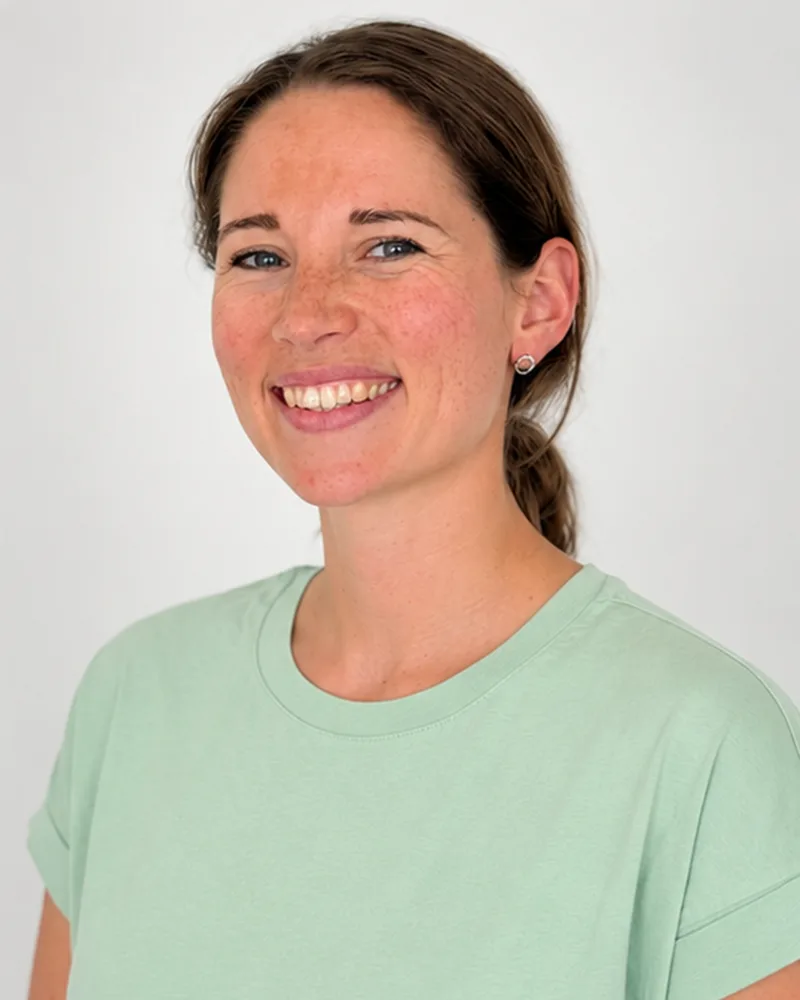
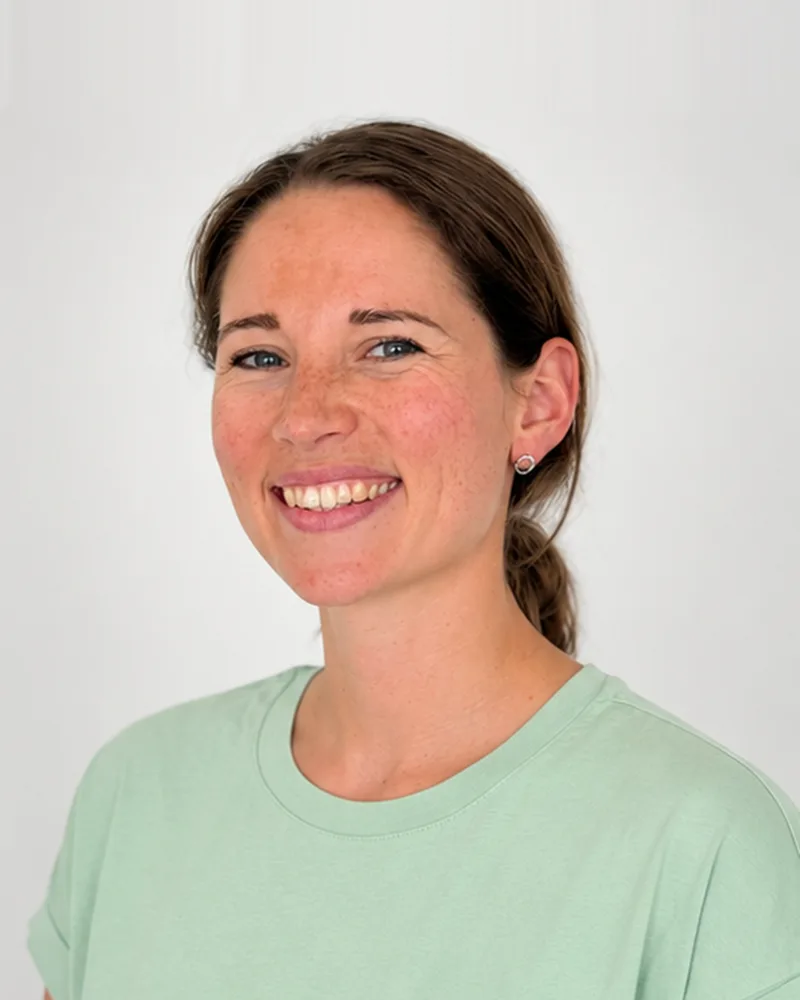
fix(team): Köpfe nicht mehr abgeschnitten — Luft über dem Kopf in den Fotos statt Sonderausschnitt
Die Form zoomt das Foto um 22 % hinein (nötig wegen der Drehung). Bei eng
gerahmten Fotos lag die Kopfoberkante damit außerhalb. Jetzt haben die Dateien
oben ~10 % verlängerte Wand, der Ausschnitt ist für alle oben bündig; der
FOKUS-Sonderfall der Ärztin entfällt.

diff --git a/src/components/ui/Formbild.tsx b/src/components/ui/Formbild.tsx
@@ -34,15 +34,6 @@ const LAGEN = [
   { dreh: 3, spiegel: 1 },
 ] as const;
 
-/**
- * Vertikaler Bildausschnitt in Prozent je Person (Standard 8, siehe `formbild.css`).
- * Das Foto der Ärztin ist enger gerahmt als die der Mitarbeiterinnen — mit 8 %
- * schnitt die Form ihr oben das Haar an (gemessen 20.10.2026); 0 % zeigt den
- * Bildanfang. Bei neuen Fotos
- * mit anderem Abstand zum Kopf hier nachziehen.
- */
-const FOKUS: Readonly<Record<number, number>> = { 0: 0 };
-
 export function Formbild({
   bild,
   alt,
@@ -66,7 +57,6 @@ export function Formbild({
     '--form': `url(${weg('/bilder/form.svg')})`,
     '--dreh': `${lage.dreh}deg`,
     '--spiegel': lage.spiegel,
-    ...(FOKUS[index] !== undefined ? { '--fokus': `${FOKUS[index]}%` } : {}),
   } as CSSProperties;
 
   return (

diff --git a/src/components/ui/formbild.css b/src/components/ui/formbild.css
@@ -32,8 +32,11 @@
   width: 100%;
   height: 100%;
   object-fit: cover;
-  /* 4:5-Datei in einer fast runden Form: das Gesicht sitzt im oberen Drittel. */
-  object-position: 50% var(--fokus, 8%);
+  /* 4:5-Datei in einer fast runden Form, oben bündig. Die Dateien haben oben
+     ~10 % Luft (verlängerte Wand), weil die Form das Foto um 22 % hineinzoomt
+     und sonst bei jedem eng gerahmten Kopf die Haare abschneidet (20.10.2026).
+     Neue Fotos brauchen dieselbe Luft über dem Kopf. */
+  object-position: 50% 0%;
 }
 
 /* Der leere Rahmen: die Form in Leinen, darin dieselbe gestrichelte Lücke wie
